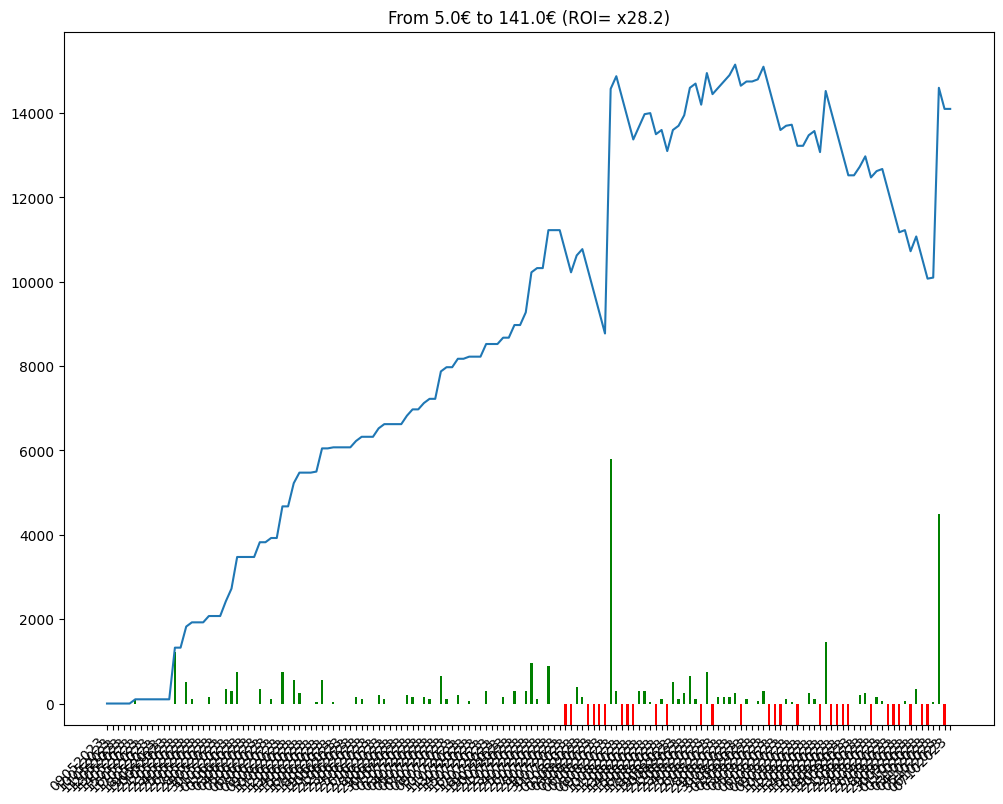
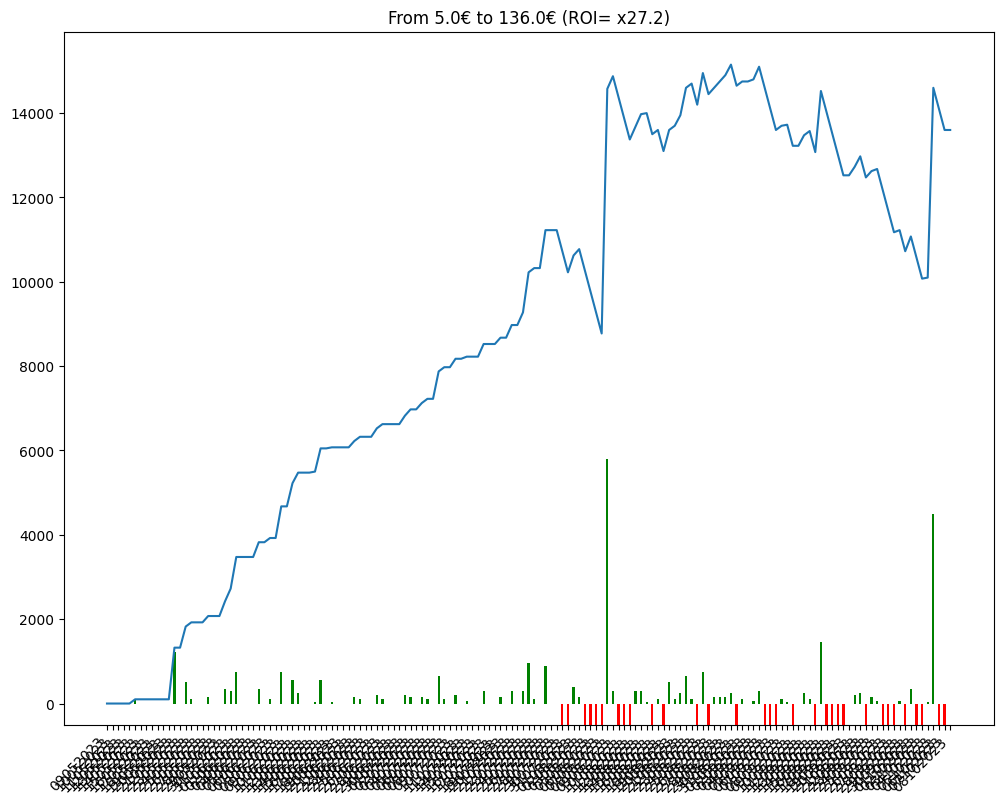
comment from python script

diff --git a/bethistory.html b/bethistory.html
@@ -86,7 +86,8 @@
             En observant la courbe 🤔, on peut avoir une idée visuelle de l'évolution des gains et ainsi évaluer le model utilisé 🧑🏫.
         </p>
         
-        <img src = "/candle.png" alt="candle chart"/><table><tr><td>Chevaux joués</td><td>Gains</td><td>URL Circuits</td></tr><tr><td>3 - INSPIRAL</td><td>0</td><td><a href=https://www.pmu.fr/turf/07102023/r8/c4 target="_blank">https://www.pmu.fr/turf/07102023/r8/c4</a></td></tr>
+        <img src = "/candle.png" alt="candle chart"/><table><tr><td>Chevaux joués</td><td>Gains</td><td>URL Circuits</td></tr><tr><td>1 - HAPPY TOGETHER</td><td>0</td><td><a href=https://www.pmu.fr/turf/08102023/r2/c9 target="_blank">https://www.pmu.fr/turf/08102023/r2/c9</a></td></tr>
+<tr><td>3 - INSPIRAL</td><td>-500</td><td><a href=https://www.pmu.fr/turf/07102023/r8/c4 target="_blank">https://www.pmu.fr/turf/07102023/r8/c4</a></td></tr>
 <tr><td>2 - DOUBLE CHECK</td><td>-500</td><td><a href=https://www.pmu.fr/turf/06102023/r2/c4 target="_blank">https://www.pmu.fr/turf/06102023/r2/c4</a></td></tr>
 <tr><td>6 - NOBLE COTAI</td><td>+4500</td><td><a href=https://www.pmu.fr/turf/05102023/r1/c2 target="_blank">https://www.pmu.fr/turf/05102023/r1/c2</a></td></tr>
 <tr><td>3 - MUTBAHY ATHBAH</td><td>+25</td><td><a href=https://www.pmu.fr/turf/04102023/r4/c7 target="_blank">https://www.pmu.fr/turf/04102023/r4/c7</a></td></tr>
